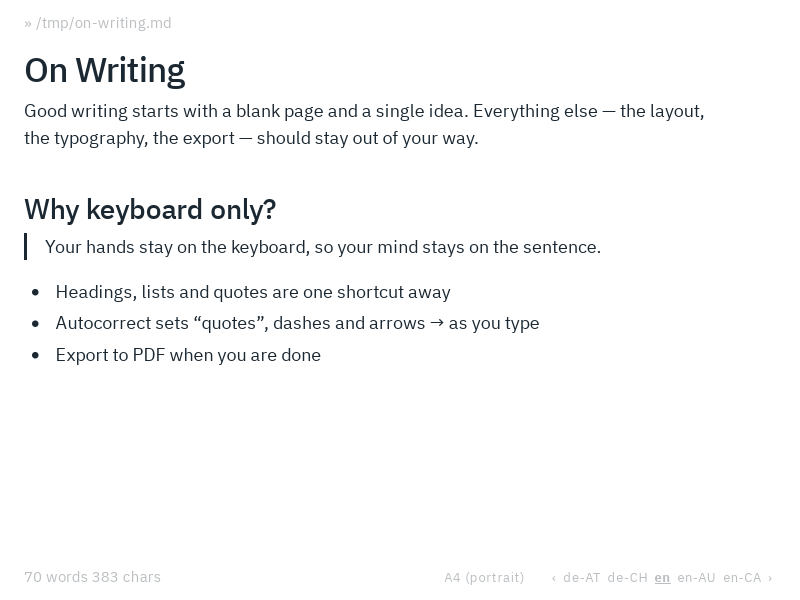
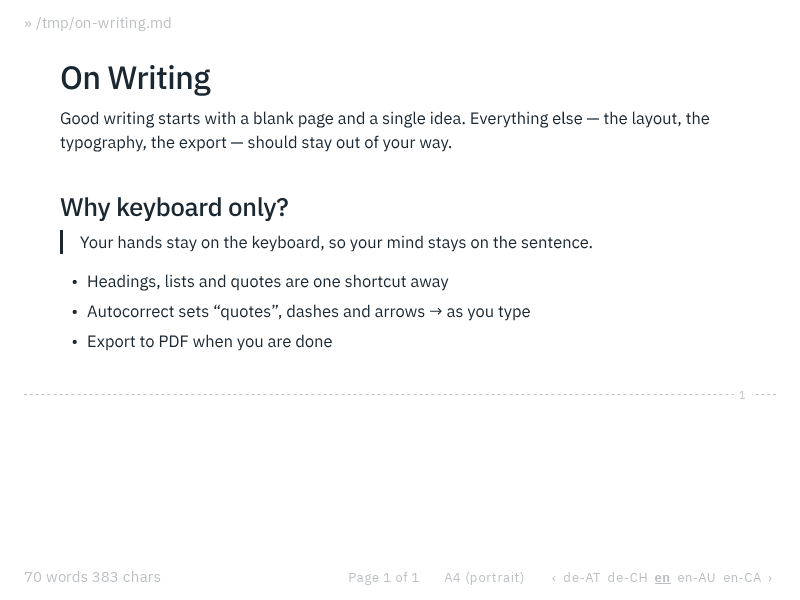
docs: show the page view in the guide and regenerate the screenshots from the painted pages

diff --git a/e2e/shots/docs.shots.ts b/e2e/shots/docs.shots.ts
@@ -6,7 +6,9 @@ import { fileURLToPath } from "node:url";
 import { $, browser } from "@wdio/globals";
 
 import {
+  editorText,
   focusEditor,
+  textBox,
   Key,
   paste,
   pressMod,
@@ -28,8 +30,18 @@ const outDir = path.resolve(
 const sample = path.join(os.tmpdir(), "on-writing.md");
 const themes = ["light", "dark", "black", "red", "green", "blue"];
 
-const shot = (name: string) =>
-  browser.saveScreenshot(path.join(outDir, `${name}.png`));
+/**
+ * shot takes a still, without the pointer a recording drew and away from
+ * what shows a hover, e.g. the bands where a page ends
+ */
+const shot = async (name: string) => {
+  await showPointer(null);
+  await browser
+    .action("pointer")
+    .move({ x: 4, y: 300, origin: "viewport" })
+    .perform();
+  await browser.saveScreenshot(path.join(outDir, `${name}.png`));
+};
 
 const setTheme = async (theme: string) => {
   while ((await browser.execute(() => document.body.dataset.theme)) !== theme) {
@@ -189,6 +201,34 @@ class Recorder {
   async enter(pause = 0.6) {
     await type(Key.Enter);
     await this.frame(pause);
+  }
+
+  /**
+   * move the mouse to where the pages show the end of the text of the
+   * editor's element at `selector`, and click there
+   */
+  async clickInto(selector: string, seconds = 0.6, move = 0.5) {
+    const at = await browser.execute((selector: string) => {
+      const geometry = (
+        window as unknown as {
+          blankGeometry: {
+            endOf: (element: Element) => number;
+            caretBox: (
+              pos: number,
+            ) => { left: number; top: number; bottom: number } | null;
+          };
+        }
+      ).blankGeometry;
+      const box = geometry.caretBox(
+        geometry.endOf(document.querySelector(selector)!),
+      )!;
+      return {
+        x: Math.round(box.left),
+        y: Math.round((box.top + box.bottom) / 2),
+      };
+    }, selector);
+    await this.moveTo(at, move);
+    await this.click(seconds);
   }
 
   /** move the mouse onto `element` and click it */
@@ -366,8 +406,10 @@ const showKeys = (keys: string[]) =>
 const addCaretStyle = () =>
   browser.execute(() => {
     const style = document.createElement("style");
+    // the painted caret: shown in every frame while typing, hidden in the
+    // stills and between the blinks of a pause
     style.textContent =
-      ".shots-no-caret .ProseMirror { caret-color: transparent; }";
+      ".page-caret { animation: none; } .shots-no-caret .page-caret { visibility: hidden; }";
     document.head.appendChild(style);
   });
 
@@ -470,7 +512,11 @@ describe("docs screenshots", () => {
       0.8,
     );
     await film.clickOn($("#band-editor").$("button=Done"), 0.6);
-    await film.clickOn($("#editor p"), 0.3);
+    await film.clickInto("#editor p", 0.3);
+    await film.hidePointer();
+    // a second page, whose header shows where the first page ends
+    await film.shortcut(["Mod", "Enter"], () => pressMod(Key.Enter), 0.8);
+    await film.type("The next morning, the sea was calm.");
     await film.pause(2.5);
     film.save(path.join(outDir, "header-footer.gif"), 545);
   });
@@ -490,7 +536,11 @@ describe("docs screenshots", () => {
     await film.clickOn($("#band-editor").$("button=Odd Pages"), 1.2);
     await film.clickOn($("#band-editor").$("button=Even Pages"), 1.2);
     await film.clickOn($("#band-editor").$("button=Done"), 0.6);
-    await film.clickOn($("#editor p"), 0.3);
+    await film.clickInto("#editor p", 0.3);
+    await film.hidePointer();
+    // an even page, whose own header shows where the first page ends
+    await film.shortcut(["Mod", "Enter"], () => pressMod(Key.Enter), 0.8);
+    await film.type("The next morning, the sea was calm.");
     await film.pause(2);
     film.save(path.join(outDir, "even-pages.gif"), 545);
   });
@@ -510,15 +560,21 @@ describe("docs screenshots", () => {
     await pressMod(Key.Alt, "s");
     await expect($("#ui-spellcheck")).toHaveText("Spelling");
     await type("every story begins with a blank page and a singel idea.");
-    await browser.waitUntil(
-      async () => (await $(".spelling-error").getText()) === "singel",
+    await browser.waitUntil(async () =>
+      (await editorText("#editor .spelling-error")).includes("singel"),
     );
     // at the end of the word, so the menu leaves it visible
-    const word = $(".spelling-error");
-    await word.click({
-      button: "right",
-      x: Math.floor((await word.getSize("width")) / 2) - 2,
-    });
+    const word = await textBox("singel", 5);
+    await browser
+      .action("pointer")
+      .move({
+        x: Math.round(word.left),
+        y: Math.round((word.top + word.bottom) / 2),
+        origin: "viewport",
+      })
+      .down({ button: 2 })
+      .up({ button: 2 })
+      .perform();
     await $(`[data-id^="suggestion:"]`).waitForExist();
     await shot("spelling");
 
@@ -629,13 +685,16 @@ describe("docs screenshots", () => {
     );
     // Tab in the last cell adds a row, where two more rows get pasted
     const lastCell = await browser.execute(() => {
-      const cell = document.querySelector(
-        "#editor tr:last-child td:last-child",
-      )!;
-      const rect = cell.getBoundingClientRect();
+      type Piece = { rows: number[]; columns: number[] };
+      const [table] = (
+        window as unknown as {
+          blankGeometry: { tables: () => { pieces: Piece[] }[] };
+        }
+      ).blankGeometry.tables();
+      const { rows, columns } = table.pieces[table.pieces.length - 1];
       return {
-        x: Math.round(rect.left + 30),
-        y: Math.round(rect.top + rect.height / 2),
+        x: Math.round(columns[columns.length - 2] + 30),
+        y: Math.round((rows[rows.length - 2] + rows[rows.length - 1]) / 2),
       };
     });
     await browser.action("pointer").move(lastCell).down().up().perform();
@@ -669,22 +728,21 @@ describe("docs screenshots", () => {
       if (i === 0) await type(Key.Enter);
     }
     await film.pause(0.8);
+    // the painted table, see src/engine/geometry.ts
     const layout = () =>
       browser.execute(() => {
-        const table = document.querySelector("#editor table")!;
-        const box = table.getBoundingClientRect();
-        const rows = [...table.querySelectorAll("tr")].map(
-          (row) => row.getBoundingClientRect().top,
-        );
-        const columns = [...table.querySelectorAll("tr:first-child > *")].map(
-          (cell) => cell.getBoundingClientRect().left,
-        );
-        return {
-          rows: [...rows, box.bottom],
-          columns: [...columns, box.right],
-          left: box.left,
-          bottom: box.bottom,
+        type Piece = {
+          box: { left: number; bottom: number };
+          rows: number[];
+          columns: number[];
         };
+        const [table] = (
+          window as unknown as {
+            blankGeometry: { tables: () => { pieces: Piece[] }[] };
+          }
+        ).blankGeometry.tables();
+        const { box, rows, columns } = table.pieces[0];
+        return { rows, columns, left: box.left, bottom: box.bottom };
       });
     const middle = (lines: number[], i: number) =>
       Math.round((lines[i] + lines[i + 1]) / 2);

diff --git a/src/scss/main.scss b/src/scss/main.scss
@@ -1290,12 +1290,15 @@ body.without-engine {
 }
 
 // where a page of "page ends" ends: its footer, then the next page's header
+// (MARK_HEIGHT in src/engine/frames.ts)
+$page-end-height: 64px;
+
 .page-end {
   position: absolute;
   top: 100%;
   left: 0;
   right: 0;
-  height: 64px;
+  height: $page-end-height;
   display: flex;
   flex-direction: column;
   justify-content: center;
@@ -1447,6 +1450,18 @@ body.band-editing #page-view {
     color: var(--color);
     background-color: var(--background-color);
     transform: translateX(-50%);
+  }
+}
+
+// in "page ends" a page break ends the page right there: its name sits on
+// the line of the mark where the page ends, between its footer and the next
+// page's header
+#page-view.page-ends .page-break-mark {
+  border-top: none;
+  opacity: 0.6;
+
+  &::after {
+    top: calc(#{$page-end-height} / 2 - 0.65em);
   }
 }
 

diff --git a/docs/guide/pages.md b/docs/guide/pages.md
@@ -2,6 +2,15 @@
 
 Your PDF and Word documents come out on the paper of your region, A4 or Letter, with generous margins of 2.5 cm. Most documents never need more than that. When one does, a single shortcut gets you there.
 
+## Your pages on the screen {#on-the-screen}
+
+Blank shows your text the way it prints: every line and every page ends on the screen exactly where it ends in the PDF. There are two ways to look at it, and `Mod` `Alt` `V` switches between them:
+
+- **Page ends** (where Blank starts): one calm column of text, as wide as it is on the paper. Where a page ends, a dashed line shows the page's number and footer, and the header of the page that follows.
+- **Pages**: the sheets themselves, one below the other, with their margins, headers, footers and page numbers in place.
+
+Blank remembers your choice. The bar at the bottom tells you which page you're on, like _Page 3 of 12_. `Page Up` and `Page Down` move a screen at a time, and dragging past the top or bottom of the window scrolls along.
+
 ## Page setup {#page-setup}
 
 Press `Mod` `Alt` `U`, click the paper in the bar at the bottom (e.g. _A4 (portrait)_), or choose **Page Setup…** from the menu (right-click or `Shift` `F10`).
@@ -34,7 +43,7 @@ For more, point at the top or bottom edge and click **+ Header** or **+ Footer**
 
 <img class="shot" src="/screenshots/header-footer.gif" alt="A click on Page numbers at the bottom edge numbers the pages; Mod Alt H opens the header, where Chapter goes on the left, Page 3 of 12 on the right, and First Page None leaves the title page plain" />
 
-`Tab` moves to the next place and on to the buttons. `Enter`, `Esc` or a click anywhere in your text is done. While you write, the header and footer stay quietly at the edges of the window, so you always see what your pages carry. A click on one opens it again, and `Mod` `Z` in your text undoes the whole change.
+`Tab` moves to the next place and on to the buttons. `Enter`, `Esc` or a click anywhere in your text is done. Your pages show what they carry: in **Pages** on every sheet, and in **Page ends** where each page ends. A click on a header or footer there, or on a sheet's top or bottom margin, opens it again, and `Mod` `Z` in your text undoes the whole change.
 
 ### The first page and even pages {#first-and-even-pages}
 
@@ -50,7 +59,7 @@ When the first or even pages have their own, tabs above the places switch betwee
 
 ![A page break between two paragraphs, shown as a dashed line labelled Page break](/screenshots/page-break.png)
 
-Press `Mod` `Enter` to continue on a new page, as in Word and Google Docs. You can also type `+++` on an empty line and press `Enter`. Blank shows the break as a dashed line labelled _Page break_. To remove it, press `Backspace` at the start of the line below it.
+Press `Mod` `Enter` to continue on a new page, as in Word and Google Docs. You can also type `+++` on an empty line and press `Enter`. The page ends right there, and Blank labels it _Page break_ (only on the screen, not on paper). To remove it, press `Backspace` at the start of the line below it.
 
 In the file, a page break is the line `<!-- pagebreak -->`, which other markdown apps don't show. Blank also reads pandoc's `\newpage`.
 

diff --git a/docs/guide/shortcuts.md b/docs/guide/shortcuts.md
@@ -4,20 +4,20 @@
 
 ## Files
 
-| Command         | Shortcut          |
-| --------------- | ----------------- |
-| New file        | `Mod` `N`         |
-| Open file       | `Mod` `O`         |
-| Save            | `Mod` `S`         |
-| Save as         | `Mod` `Shift` `S` |
-| Export as PDF   | `Mod` `Alt` `P`   |
-| Export as Word  | `Mod` `Alt` `W`   |
-| Page setup      | `Mod` `Alt` `U`   |
-| Edit header     | `Mod` `Alt` `H`   |
-| Edit footer     | `Mod` `Alt` `F`   |
-| Pages or page ends | `Mod` `Alt` `V` |
-| Cycle themes    | `Mod` `Alt` `T`   |
-| Choose language | `Mod` `Alt` `L`   |
+| Command                                         | Shortcut          |
+| ----------------------------------------------- | ----------------- |
+| New file                                        | `Mod` `N`         |
+| Open file                                       | `Mod` `O`         |
+| Save                                            | `Mod` `S`         |
+| Save as                                         | `Mod` `Shift` `S` |
+| Export as PDF                                   | `Mod` `Alt` `P`   |
+| Export as Word                                  | `Mod` `Alt` `W`   |
+| Page setup                                      | `Mod` `Alt` `U`   |
+| Edit header                                     | `Mod` `Alt` `H`   |
+| Edit footer                                     | `Mod` `Alt` `F`   |
+| [Pages or page ends](./pages#on-the-screen)     | `Mod` `Alt` `V`   |
+| Cycle themes                                    | `Mod` `Alt` `T`   |
+| Choose language                                 | `Mod` `Alt` `L`   |
 
 ## Editing
 
@@ -26,6 +26,8 @@
 | Undo              | `Mod` `Z`         |
 | Redo              | `Mod` `Shift` `Z` |
 | Insert line break | `Shift` `Enter`   |
+| A screen up / down | `Page Up` / `Page Down` |
+| Start / end of the line | `Home` / `End` |
 
 ## Blocks
 

diff --git a/docs/guide/writing.md b/docs/guide/writing.md
@@ -1,6 +1,6 @@
 # Writing in Blank
 
-Blank shows your text as it will look, not as markdown syntax. There are no toolbars: you format with [keyboard shortcuts](./shortcuts) or by typing markdown, which Blank turns into formatting as you go.
+Blank shows your text as it will look, not as markdown syntax, and on the lines and pages it will have on paper (see [Pages](./pages#on-the-screen)). There are no toolbars: you format with [keyboard shortcuts](./shortcuts) or by typing markdown, which Blank turns into formatting as you go.
 
 <img class="shot" src="/screenshots/theme-light.png" alt="A document in Blank's light theme" />
 
@@ -22,6 +22,8 @@ At the start of an empty line, type one of these to turn the line into a block:
 Changed your mind? `Mod` `Z` right away gives you back the line as you typed it.
 
 Inline markdown works too: `**bold**`, `*italic*`, `` `code` ``, `[title](url)` and plain URLs become formatting once you finish the word. See [Autocorrect](./autocorrect) for everything Blank corrects.
+
+Code is set in IBM Plex Mono, on the screen and in the PDF. `Mod` + Click opens a link. Emoji show in black and white, in the colour of your text, and Chinese, Japanese, Korean and other scripts in the fonts your computer has for them, so they look on paper as they do on the screen. A word too long for the line, like a long web address, continues on the next one.
 
 ## Tables
 
